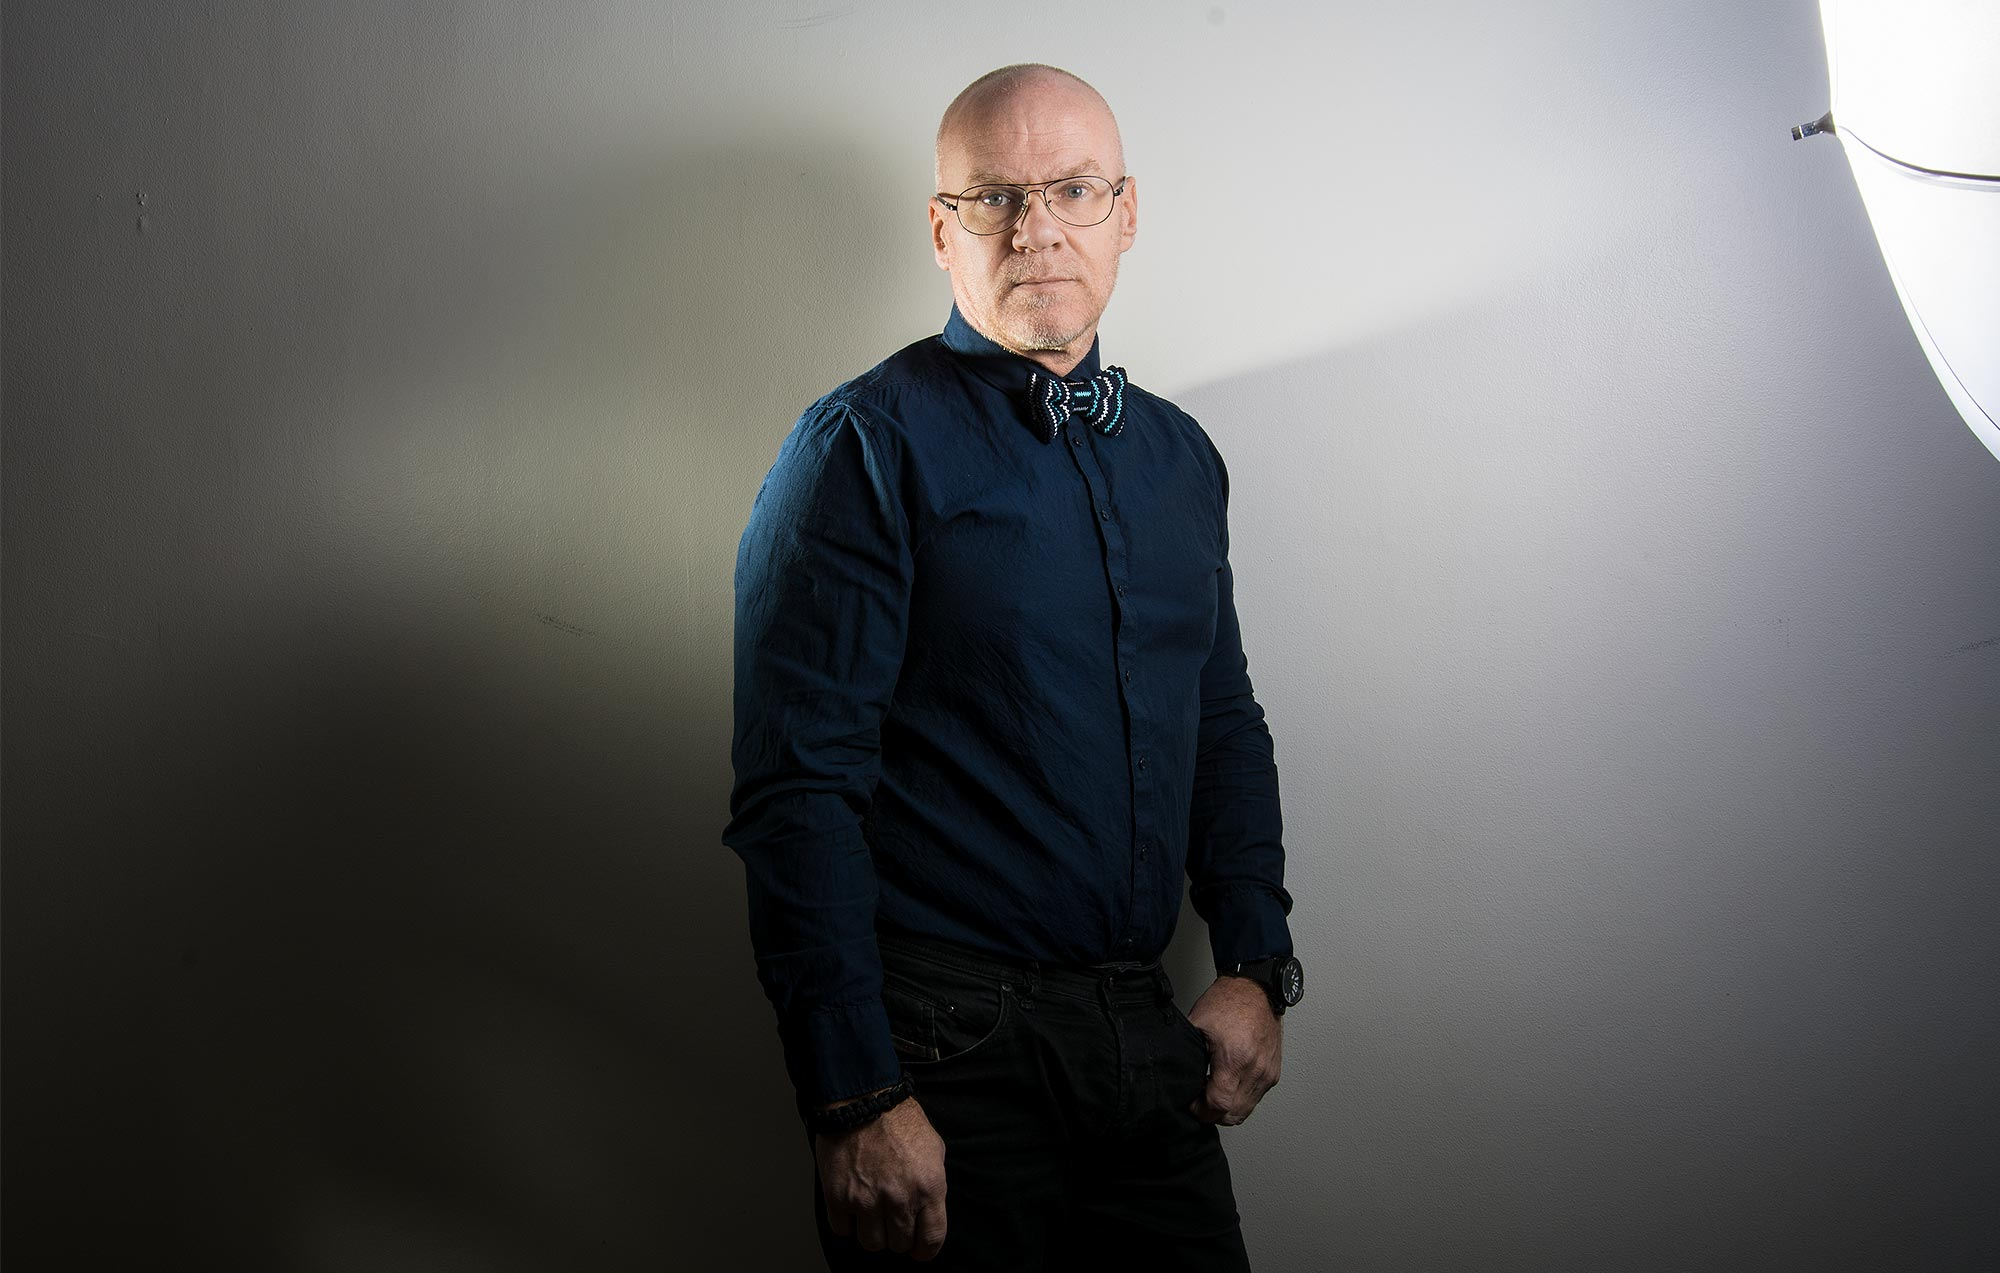
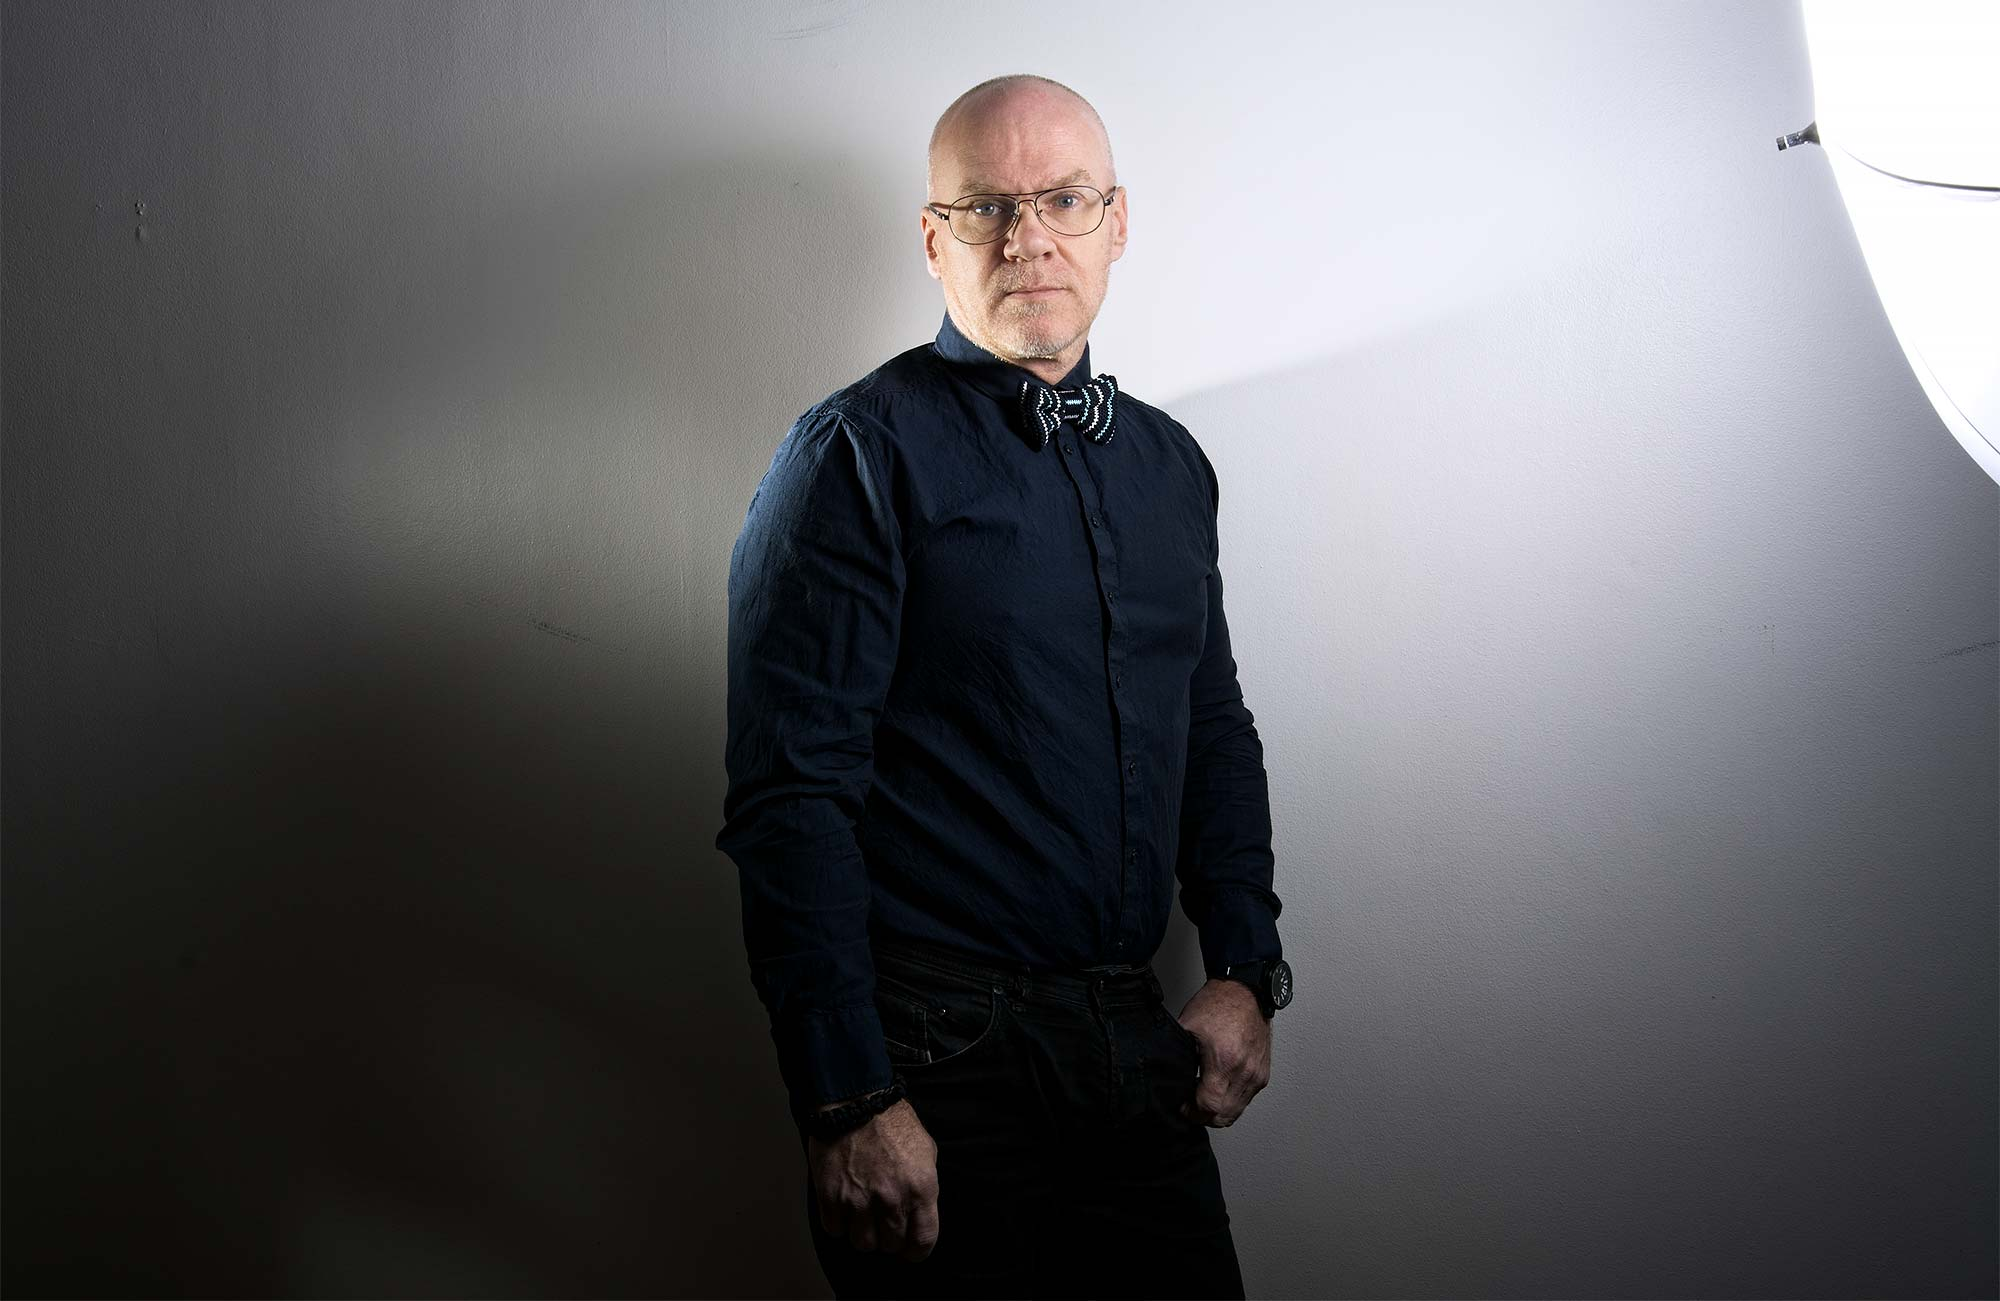
Ny hero och espressobild

Changed region(s): [[0.341, 0.0, 1.0, 0.8885], [0.403, 0.8272, 0.496, 0.9804], [0.341, 0.6127, 0.372, 0.674]]

diff --git a/index.html b/index.html
@@ -39,9 +39,10 @@
               <li>I'm always saying "Yes!" to a great UI</li>
               <li>Both solo and teamwork experience</li>
               <li>Knowledge in Photoshop and Affinity Photo</li>
-              <li>I believe that a true inside is better then a glossy surface – for both web site and people.</li>
+              <li>I believe that a true inside is better then a glossy surface – for both web sites and people.</li>
             </ul>
-            <p>I'm living healthy and starts every day with two double Espresso.</p>
+            <p>I'm living healthy and starts every day with two double Espresso. <img src="/img/espresso.jpg" alt="espresso" />
+                  </p>
           </article>
           
           <section class="features">  
@@ -70,7 +71,7 @@
                 </div>
                 <div class="techs--item">
                   <h3>CMS</h3>
-                  <p>Content management system with either ExpressionEngine or Craft CMS.</p>
+                  <p>Content management system with either ExpressionEngine CMS.</p>
                 </div>
               </section>
             </article>
